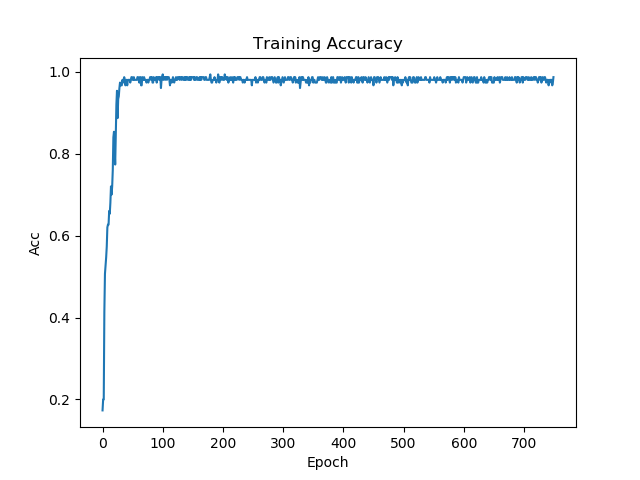
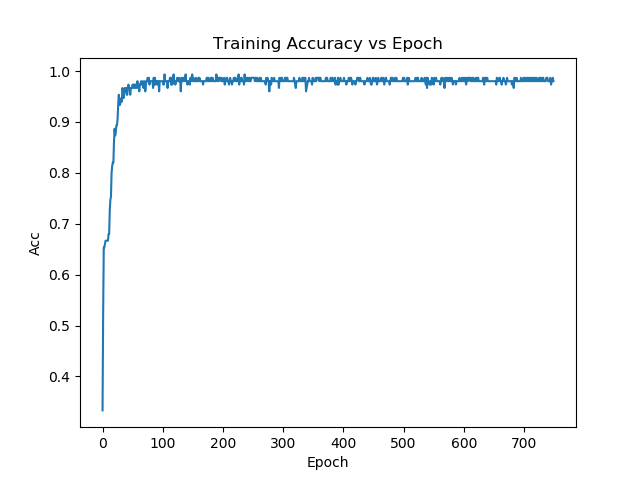
Fixes to loss calculation

diff --git a/EX1/Q3Ben/train.py b/EX1/Q3Ben/train.py
@@ -9,7 +9,7 @@ from model import FacialDataset, FacialNet2, FacialNet3
 parser = argparse.ArgumentParser()
 parser.add_argument('--question', type=int, default=2, help='Question section')
 parser.add_argument('--dpath', type=str, default='training.csv', help='length of a bit sequence')
-parser.add_argument('--epochs', type=int, default=100, help='Number of epochs to train on')
+parser.add_argument('--epochs', type=int, default=500, help='Number of epochs to train on')
 parser.add_argument('--lr', type=float, default=0.001, help='Learning rate')
 parser.add_argument('--batch_size', type=int, default=16, help='Batch size')
 parser.add_argument('--no_gpu', action='store_true', help='Disable gpu usage')
@@ -50,7 +50,7 @@ def run(device, question):
             loss.backward()
             optimizer.step()
 
-            ep_train_loss += loss.item()
+            ep_train_loss += loss.item()*len(images)
         train_loss.append(ep_train_loss/len(train_set))
 
         # Test loop
@@ -62,7 +62,7 @@ def run(device, question):
             outputs = net(images)
             loss = criterion(outputs, annots)
 
-            ep_test_loss += loss.item()
+            ep_test_loss += loss.item()*len(images)
         test_loss.append(ep_test_loss/len(test_set))
 
     return net, train_loss, test_loss

diff --git a/EX1/Q2/train.py b/EX1/Q2/train.py
@@ -39,7 +39,7 @@ def run(device):
             loss.backward()
             optimizer.step()
 
-            ep_loss += loss.item()
+            ep_loss += loss.item()*len(inputs)
             ep_acc += sum(probs.argmax(dim=-1) == labels).item()
         losses.append(ep_loss/len(train_set))
         accuracy.append(ep_acc/len(train_set))
@@ -55,17 +55,21 @@ if __name__ == '__main__':
         dev = torch.device('cpu')
     _, loss, acc = run(dev)
 
+    print(f'Fully Connected Network On Iris Dataset')
+    print(f'Final training loss: {loss[-1]}')
+    print(f'Final Accuracy: {acc[-1]*100}%')
+
     # Plot results
     plt.figure()
     plt.plot(range(args.epochs), loss)
-    plt.title('Training Loss - CrossEntropyLoss')
+    plt.title('Training Loss - CrossEntropyLoss vs Epoch')
     plt.ylabel('Loss')
     plt.xlabel('Epoch')
     plt.savefig('Loss.png')
 
     plt.figure()
     plt.plot(range(args.epochs), acc)
-    plt.title('Training Accuracy')
+    plt.title('Training Accuracy vs Epoch')
     plt.ylabel('Acc')
     plt.xlabel('Epoch')
     plt.savefig('Accuracy.png')

diff --git a/EX1/Q1/train.py b/EX1/Q1/train.py
@@ -37,7 +37,7 @@ def run(device):
             loss.backward()
             optimizer.step()
 
-            ep_loss += loss.item()
+            ep_loss += loss.item()*len(inputs)
         losses.append(ep_loss/len(train_set))
 
     # Test trained network
